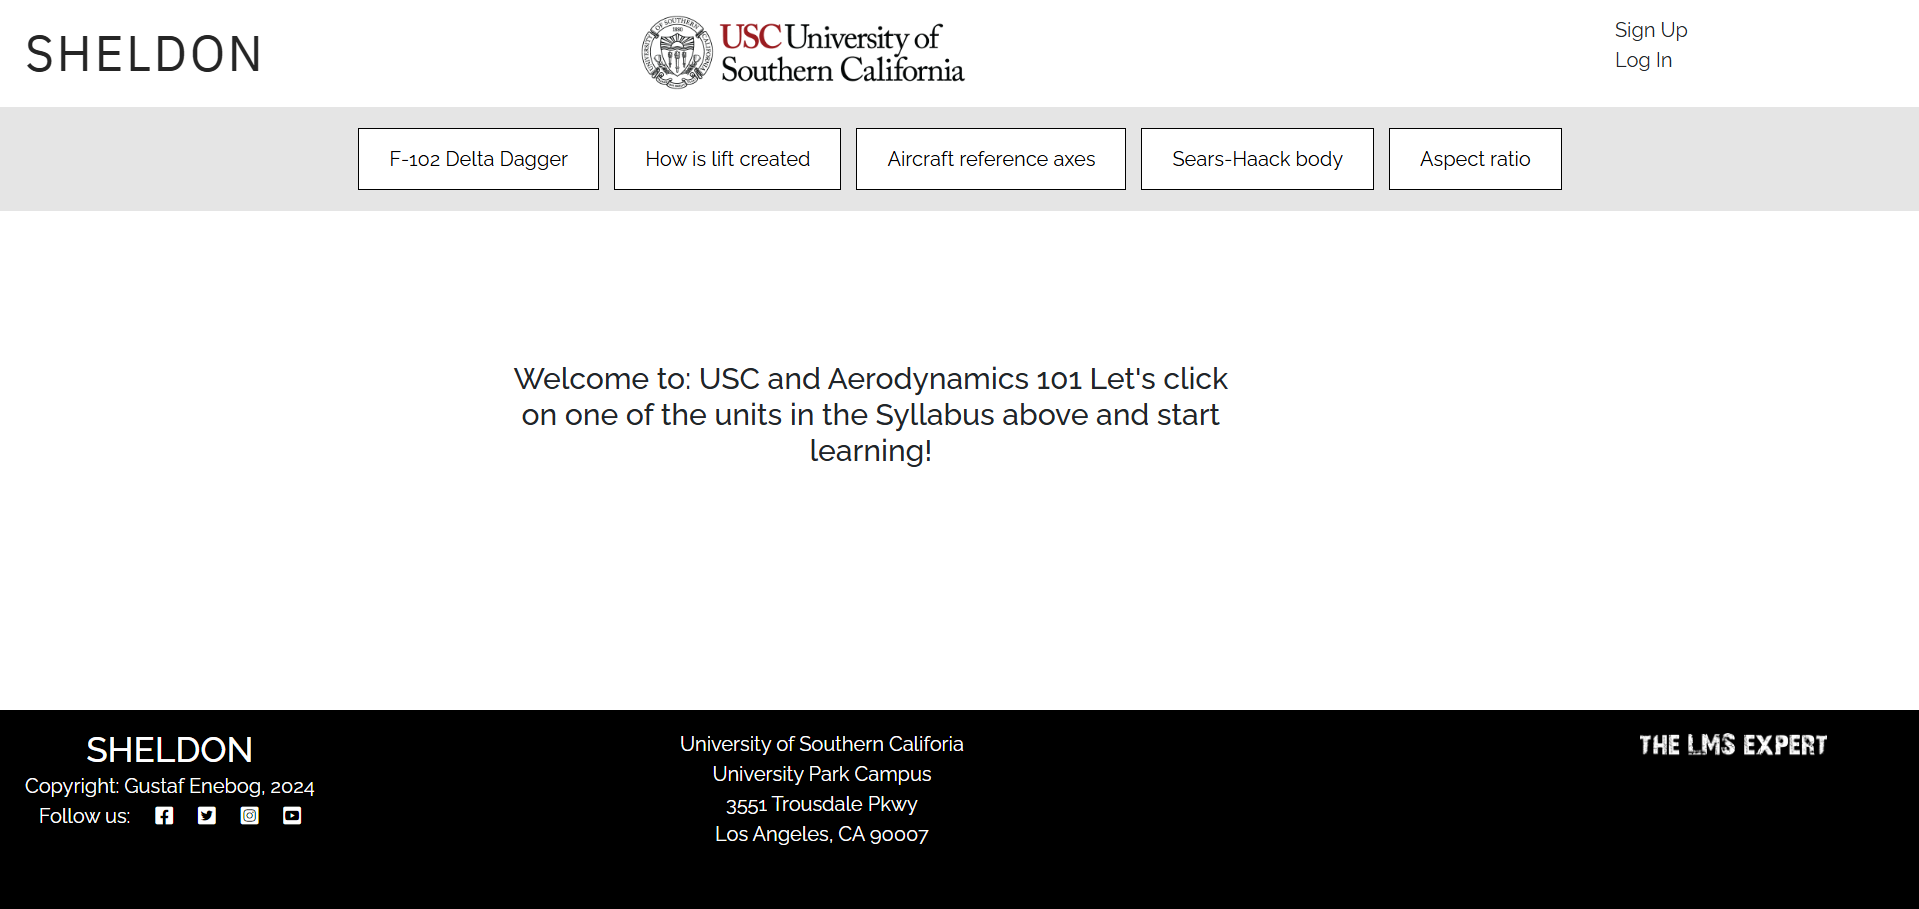
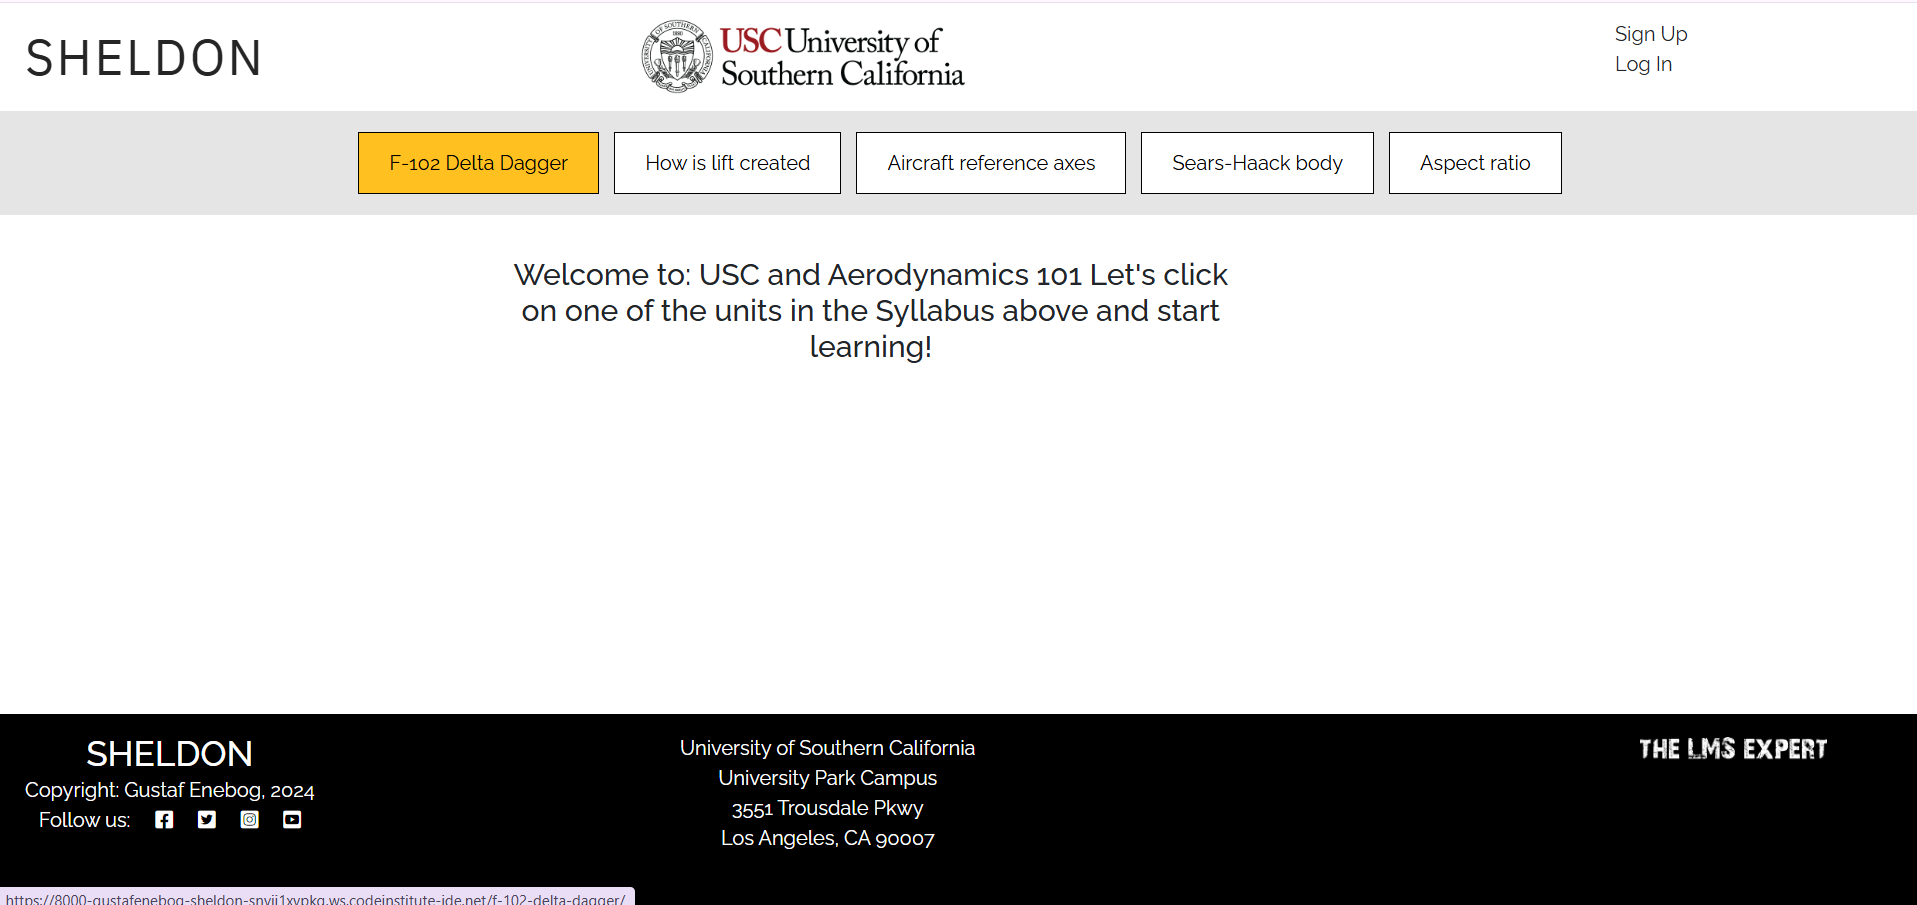
Uppdate readme features

diff --git a/textbook/urls.py b/textbook/urls.py
@@ -8,16 +8,9 @@ from textbook.views import custom_404
 
 
 urlpatterns = [
-    #path('admin/', admin.site.urls),
     path('', views.UnitListView.as_view(), name='index'),
     path('<slug:unit_slug>/edit_note/<int:note_id>/', views.note_edit, name='note_edit'),
     path('<slug:unit_slug>/delete_note/<int:note_id>/', views.note_delete, name='note_delete'),
     path('profile/', views.profile, name='profile'),
     path('<slug:unit_slug>/', views.unit_detail, name="unit_detail")
 ]
-
-# Set the handlers to your custom view
-handler403 = 'textbook.views.custom_403'
-handler404 = 'textbook.views.custom_404'
-handler405 = 'textbook.views.custom_405'
-handler500 = 'textbook.views.custom_500'

diff --git a/README.md b/README.md
@@ -176,38 +176,44 @@ The database models are implemented according to the below Entity Relationship D
 ![ERD Sheldon](images-for-readme/sheldon-erd.png)
 
 <span style="color:#1591ea;font-weight:700;font-size:20px">
+Landing page.
+</span>
+
+This is the first page that meets the user. This page allows the user to select a unit in the Syllabus (grey backgropund.)  
+<br>
+<img src="images-for-readme/landing-page.png" width="700" height="auto">
+<br>
+
+<span style="color:#1591ea;font-weight:700;font-size:20px">
+Unit page
+</span>
+
+Unit page with unit and notes.  
+<br>
+<img src="images-for-readme/unit-page-complete.png" width="700" height="auto">
+<br>
+
+<span style="color:#1591ea;font-weight:700;font-size:20px">
 Favicon
 </span>
 
 The first letter of the APP name 'Sheldon' serve as the "small space" version of the logo.
 
+<br>
 <img src="images-for-readme/tabs.png">
-
 <br>
 
 <span style="color:#1591ea;font-weight:700;font-size:20px">
 Name/logo of Educational Institution (Header)
 </span>
 
-The logo of the name of the Eduational Institution ("University of Southern California" in my example) is currently hardcoded.
+The logo of the name of the Educational Institution ("University of Southern California" in my example) is currently hardcoded.
 
 <img src="images-for-readme/logo-educational-inst.jpg" width="700" height="auto">
-
 
 <span style="color:#1591ea;font-weight:700;font-size:20px">
 Authentication
 </span>
-
-
-
-
-
-<img src="images-for-readme/landing-page.png" width="700" height="auto">
-<img src="images-for-readme/orange-upon-hover.png" width="700" height="auto">
-<img src="images-for-readme/unit_page.png" width="700" height="auto">
-
-
-
 
 ### Sign Up
 
@@ -219,9 +225,13 @@ The user is then taken to a Sign Up page.
 <br>
 <img src="images-for-readme/sign-up.png" width="400" height="auto">
 <br>
+A user that already have an account that have mistakenly landed on the sign up page is here also given a chance to divert to the login page.  
+<br>
+<img src="images-for-readme/already-an-account.png" width="400" height="auto">
+<br>
 Upon successful sign up the user receives a confirmation message.  
 <br>
-<img src="xxxxxxxxxxxxxxxxxxxxxxxxxxxxxxxxxxxxxxxx" width="400" height="auto">
+<img src="images-for-readme/sign-up-confirmation-message.png" width="400" height="auto">
 
 ### Login
 
@@ -355,15 +365,19 @@ Footer
 The footer is divided into two sections, a left section where Sheldon related items, e.g. Social media links for the Sheldon Product is displaied and a middle/right section where the Eduational Institution that is using the Sheldon app can display its information, e.g. contact info.
 
 <img src="images-for-readme/footer.jpg" width="700" height="auto">
-
+<br>
 
 <span style="color:#1591ea;font-weight:700;font-size:20px">
-Responsiveness
+Responsiveness  
 </span>
 
-The responsiveness is based on stacking the element on top of each other combined with shrinking the elements
+<br>
+The responsiveness is based on stacking the element on top of each other combined with shrinking the elements  
+
+<br>
 <img src="images-for-readme/responsiveness.jpg" width="500" height="auto">
 
+<br>
 <span style="color:#1591ea;font-weight:700;font-size:20px">
 Error messages
 </span>
@@ -386,6 +400,7 @@ Sheldon-themed error-pages has been create in order to somwhat mitigate the nega
 
 <img src="images-for-readme/error-page-500.jpg" width="700" height="auto">
 
+<br>
 
 # <span style="color:orange;font-weight:700;font-size:22px">FEATURES TO IMPLEMENT IN THE FUTURE (Out of scoop features)</span>
 
@@ -1032,7 +1047,7 @@ USER STORY: 24. As a **developer**, I can **deploy to a hosting service**, so th
 
 The following devices and browsers were used for manual & responsive UI testing.
 
-- iPhone 11 (2020)
+- iPhone 11 (2020) and iPhone 5 (2020)
     - Safari (v16)
     - Chrome (v114)
 - Think Pad P1
@@ -1158,13 +1173,13 @@ Forking the GitHub Repository
 
 By forking the GitHub Repository we make a copy of the original repository on our GitHub account to view and/or make changes without affecting the original repository by using the following steps...
 
-1. Log in to GitHub and locate the [GitHub Repository](https://github.com/timgoalen/command-line-coffee)
+1. Log in to GitHub and locate the [GitHub Repository](https://github.com/GustafEnebog/sheldon)
 2. At the top right of the Repository, just below the GitHub navbar, click on the "Fork" Button.
 3. You should now have a copy of the original repository in your GitHub account.
 
 ## Making a Local Clone
 
-1. Log in to GitHub and locate the [GitHub Repository](https://github.com/timgoalen/command-line-coffee)
+1. Log in to GitHub and locate the [GitHub Repository](https://github.com/GustafEnebog/sheldon)
 2. Above the list of files, click "Code".
 3. To clone the repository using HTTPS, under "Clone with HTTPS", copy the link.
 4. Open Git Bash
